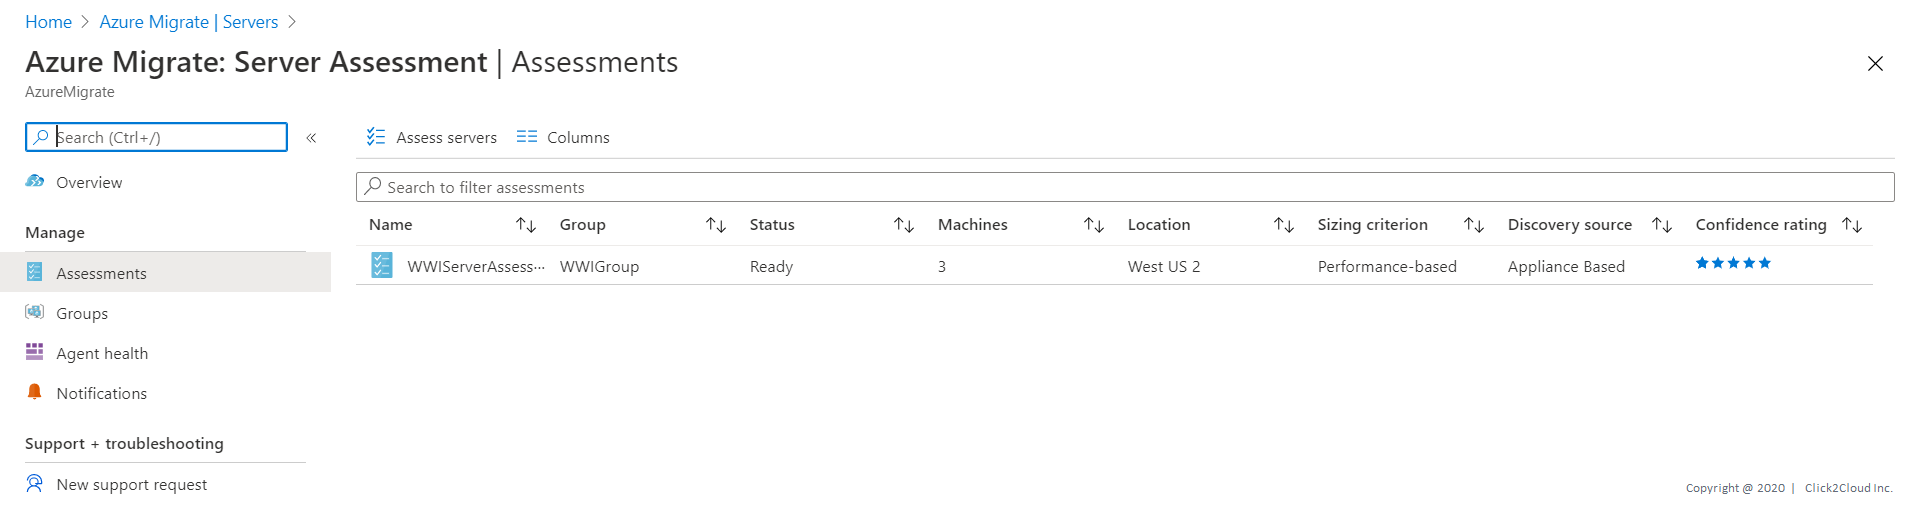
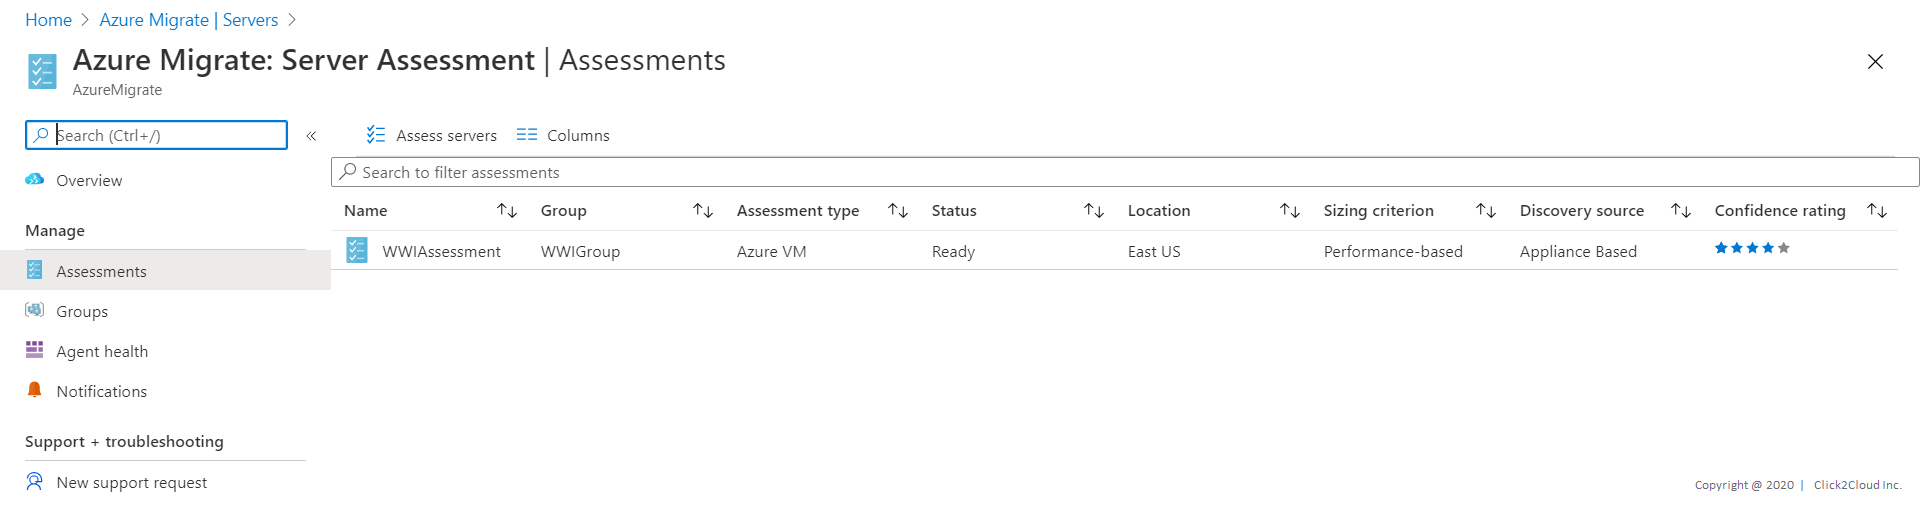
Vrutti: Changes for server assessment

diff --git a/assess/wwi-ecomm-app.md b/assess/wwi-ecomm-app.md
@@ -13,7 +13,7 @@ Technologies used:
 
 App discovery using Azure Migrate: Server Assessment is agentless. Nothing is installed on machines and VMs. Server Assessment uses the Azure Migrate appliance to perform discovery along with machine guest credentials. The appliance remotely accesses the VMware machines using VMware APIs.
 
-1. Log in to the azure console, Serach for **Azure Migrate** and click on **Azure Migrate**.
+1. Log in to the azure console, Search for **Azure Migrate** and click on **Azure Migrate**.
 
 <p><kbd>
   <img src="../images/WWI-eCommerce/wwi-server-assessment-1.png">
@@ -59,45 +59,63 @@ Here you can see all the discovered servers from your on-premise data center **v
 
 ## Steps for Azure Readiness and Total Cost of Ownership
 
-1. In the **Servers** tab, in **Azure Migrate: Server Assessment** tile, click **Assess servers**.
+1. In the **Servers** tab, in **Azure Migrate: Server Assessment** tile, click **Assess**.
 
 <p><kbd>
   <img src="../images/WWI-eCommerce/wwi-server-assessment-3.png">
 </kbd></p>
 
-2. In **Assess servers**, specify a name for the assessment. In **Select or create a group**, select **Use Existing**, and select a group created above. Click on **Create Assessment**.
+2. In **Assess servers**, select the assessment type as **Azure VM**, select the discovery source and specify the assessment name.
 
 <p><kbd>
   <img src="../images/WWI-eCommerce/wwi-server-assessment-5.png">
 </kbd></p>
 
-3. After the assessment is created, view it in **Servers** > **Azure Migrate: Server Assessment** > **Assessments**.
+3. Select **View all**, and then review the assessment properties and click **Save**.
+
+<p><kbd>
+  <img src="../images/WWI-eCommerce/server-assessment-3.PNG">
+</kbd></p>
+
+4. Click next to Select machines to assess. In **Select or create a group**, select **Use Existing**, and select a group created above. Click **Next** to review the assessment details.
+
+<p><kbd>
+  <img src="../images/WWI-eCommerce/server-assessment-4.PNG">
+</kbd></p>
+
+5. Select **Create Assessment** to run the assessment.
+
+<p><kbd>
+  <img src="../images/WWI-eCommerce/server-assessment-5.PNG">
+</kbd></p>
+
+6. After the assessment is created, view it in **Servers** > **Azure Migrate: Server Assessment** > **Assessments**.
 
 <p><kbd>
   <img src="../images/WWI-eCommerce/wwi-server-assessment-6.png">
 </kbd></p>
 
-4. You will be redirected to **Assessment Overview**. Here we are using Demo specific Server and Data, so cost may differ for you.
+7. You will be redirected to **Assessment Overview**. Here we are using Demo specific Server and Data, so cost may differ for you.
 
 <p><kbd>
   <img src="../images/WWI-eCommerce/wwi-server-assessment-7.png">
 </kbd></p>
 
-5. Click on **Azure Readiness**.
+8. Click on **Azure Readiness**.
 Azure readiness show whether VMs are suitable for migration to Azure.
 
 <p><kbd>
   <img src="../images/WWI-eCommerce/wwi-server-assessment-8.png">
 </kbd></p>
 
-6. Click on **Cost Details**.
+9. Click on **Cost Details**.
 It shows the estimated monthly compute and storage costs for running the VMs in Azure and Estimated costs for disk storage after migration.
 
 <p><kbd>
   <img src="../images/WWI-eCommerce/wwi-server-assessment-9.png">
 </kbd></p>
 
-7. Click on Servers it will show you Migration tool suggestion and Reason why to use suggested tool.
+10. Click on Servers it will show you Migration tool suggestion and Reason why to use suggested tool.
 
 <p><kbd>
   <img src="../images/WWI-eCommerce/wwi-server-assessment-10-app.png">

diff --git a/assess/wwi-ecomm-db-legacy.md b/assess/wwi-ecomm-db-legacy.md
@@ -3,7 +3,7 @@
 * This WWI infrastructure is on on-premise
 * WWI wants to migrate their workload on Azure cloud.
 
-The database that will be migrated is hosted on a Windows 7.
+The database that will be migrated contains campaign related data and is hosted on Windows 7.
 
 Technologies used:
  - Microsoft SQL Server 2005
@@ -47,45 +47,63 @@ Here you can see all the discovered servers from your on-premise data center **v
 
 ## Steps for Azure Readiness and Total Cost of Ownership
 
-1. In the **Servers** tab, in **Azure Migrate: Server Assessment** tile, click **Assess servers**.
+1. In the **Servers** tab, in **Azure Migrate: Server Assessment** tile, click **Assess**.
 
 <p><kbd>
   <img src="../images/WWI-eCommerce/wwi-server-assessment-3.png">
 </kbd></p>
 
-2. In **Assess servers**, specify a name for the assessment. In **Select or create a group**, select **Use Existing**, and select a group created above. Click on **Create Assessment**.
+2. In **Assess servers**, select the assessment type as **Azure VM**, select the discovery source and specify the assessment name.
 
 <p><kbd>
   <img src="../images/WWI-eCommerce/wwi-server-assessment-5.png">
 </kbd></p>
 
-3. After the assessment is created, view it in **Servers** > **Azure Migrate: Server Assessment** > **Assessments**.
+3. Select **View all**, and then review the assessment properties and click **Save**.
+
+<p><kbd>
+  <img src="../images/WWI-eCommerce/server-assessment-3.PNG">
+</kbd></p>
+
+4. Click next to Select machines to assess. In **Select or create a group**, select **Use Existing**, and select a group created above. Click **Next** to review the assessment details.
+
+<p><kbd>
+  <img src="../images/WWI-eCommerce/server-assessment-4.PNG">
+</kbd></p>
+
+5. Select **Create Assessment** to run the assessment.
+
+<p><kbd>
+  <img src="../images/WWI-eCommerce/server-assessment-5.PNG">
+</kbd></p>
+
+6. After the assessment is created, view it in **Servers** > **Azure Migrate: Server Assessment** > **Assessments**.
 
 <p><kbd>
   <img src="../images/WWI-eCommerce/wwi-server-assessment-6.png">
 </kbd></p>
 
-4. You will be redirected to **Assessment Overview**. Here we are using Demo specific Server and Data, so cost may differ for you.
+7. You will be redirected to **Assessment Overview**. Here we are using Demo specific Server and Data, so cost may differ for you.
 
 <p><kbd>
   <img src="../images/WWI-eCommerce/wwi-server-assessment-7.png">
 </kbd></p>
 
-5. Click on **Azure Readiness**.
+8. Click on **Azure Readiness**.
 Azure readiness show whether VMs are suitable for migration to Azure.
 
 <p><kbd>
   <img src="../images/WWI-eCommerce/wwi-server-assessment-8.png">
 </kbd></p>
 
-6. Click on **Cost Details**.
+9. Click on **Cost Details**.
 It shows the estimated monthly compute and storage costs for running the VMs in Azure and Estimated costs for disk storage after migration.
 
 <p><kbd>
   <img src="../images/WWI-eCommerce/wwi-server-assessment-9.png">
 </kbd></p>
 
-7. Click on Servers it will show you Migration tool suggestion and Reason why to use suggested tool.
+10. Click on Servers it will show you Migration tool suggestion and Reason why to use suggested tool.
 
 <p><kbd>
   <img src="../images/WWI-eCommerce/wwi-server-assessment-10-legacy-db.png">

diff --git a/assess/wwi-ecomm-db.md b/assess/wwi-ecomm-db.md
@@ -58,45 +58,63 @@ Here you can see all the discovered servers from your on-premise data center **v
 
 ## Steps for Azure Readiness and Total Cost of Ownership
 
-1. In the **Servers** tab, in **Azure Migrate: Server Assessment** tile, click **Assess servers**.
+1. In the **Servers** tab, in **Azure Migrate: Server Assessment** tile, click **Assess**.
 
 <p><kbd>
   <img src="../images/WWI-eCommerce/wwi-server-assessment-3.png">
 </kbd></p>
 
-2. In **Assess servers**, specify a name for the assessment. In **Select or create a group**, select **Use Existing**, and select a group created above. Click on **Create Assessment**.
+2. In **Assess servers**, select the assessment type as **Azure VM**, select the discovery source and specify the assessment name.
 
 <p><kbd>
   <img src="../images/WWI-eCommerce/wwi-server-assessment-5.png">
 </kbd></p>
 
-3. After the assessment is created, view it in **Servers** > **Azure Migrate: Server Assessment** > **Assessments**.
+3. Select **View all**, and then review the assessment properties and click **Save**.
+
+<p><kbd>
+  <img src="../images/WWI-eCommerce/server-assessment-3.PNG">
+</kbd></p>
+
+4. Click next to Select machines to assess. In **Select or create a group**, select **Use Existing**, and select a group created above. Click **Next** to review the assessment details.
+
+<p><kbd>
+  <img src="../images/WWI-eCommerce/server-assessment-4.PNG">
+</kbd></p>
+
+5. Select **Create Assessment** to run the assessment.
+
+<p><kbd>
+  <img src="../images/WWI-eCommerce/server-assessment-5.PNG">
+</kbd></p>
+
+6. After the assessment is created, view it in **Servers** > **Azure Migrate: Server Assessment** > **Assessments**.
 
 <p><kbd>
   <img src="../images/WWI-eCommerce/wwi-server-assessment-6.png">
 </kbd></p>
 
-4. You will be redirected to **Assessment Overview**. Here we are using Demo specific Server and Data, so cost may differ for you.
+7. You will be redirected to **Assessment Overview**. Here we are using Demo specific Server and Data, so cost may differ for you.
 
 <p><kbd>
   <img src="../images/WWI-eCommerce/wwi-server-assessment-7.png">
 </kbd></p>
 
-5. Click on **Azure Readiness**.
+8. Click on **Azure Readiness**.
 Azure readiness show whether VMs are suitable for migration to Azure.
 
 <p><kbd>
   <img src="../images/WWI-eCommerce/wwi-server-assessment-8.png">
 </kbd></p>
 
-6. Click on **Cost Details**.
+9. Click on **Cost Details**.
 It shows the estimated monthly compute and storage costs for running the VMs in Azure and Estimated costs for disk storage after migration.
 
 <p><kbd>
   <img src="../images/WWI-eCommerce/wwi-server-assessment-9.png">
 </kbd></p>
 
-7. Click on Servers it will show you Migration tool suggestion and Reason why to use suggested tool.
+10. Click on Servers it will show you Migration tool suggestion and Reason why to use suggested tool.
 
 <p><kbd>
   <img src="../images/WWI-eCommerce/wwi-server-assessment-10-db.png">
